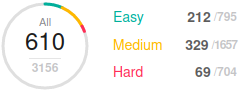
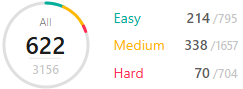
LC491: DFS, use set to avoid duplication; LC494: DP

diff --git a/491_Non-decreasing_Subsequences.cpp b/491_Non-decreasing_Subsequences.cpp
@@ -1,0 +1,23 @@
+class Solution {
+public:
+    void DFS(vector<int>& nums,int idx,vector<int>& path,vector<vector<int>>& ans,set<vector<int>>&s){
+        for(int i=idx;i<nums.size();i++){
+            if(path.size()==0 || path[path.size()-1]<=nums[i]){
+                path.push_back(nums[i]);
+                if(path.size()>1 && s.find(path)==s.end()){
+                    ans.push_back(path);
+                    s.insert(path);
+                }
+                DFS(nums,i+1,path,ans,s);
+                path.pop_back();
+            }
+        }
+    }
+    vector<vector<int>> findSubsequences(vector<int>& nums) {
+        vector<vector<int>>ans;
+        vector<int>path;
+        set<vector<int>>s;
+        DFS(nums,0,path,ans,s);
+        return ans;   
+    }
+};

diff --git a/494_Target_Sum.cpp b/494_Target_Sum.cpp
@@ -1,0 +1,17 @@
+class Solution {
+public:
+    int solve(vector<vector<int>>& dp,vector<int>& nums,int i,int target){
+        if(target<-1000 || target>1000)return 0;
+        if(dp[i][target+1000]!=-1)return dp[i][target+1000];
+        return dp[i][target+1000]=solve(dp,nums,i-1,target-nums[i-1])+solve(dp,nums,i-1,target+nums[i-1]);
+    }
+    int findTargetSumWays(vector<int>& nums, int target) {
+        int n=nums.size();
+        vector<vector<int>>dp(n+1,vector<int>(2001,-1));
+        for(int i=0;i<2001;i++){
+            dp[0][i]=0;
+        }
+        dp[0][1000]=1;
+        return solve(dp,nums,n,target);
+    }
+};
